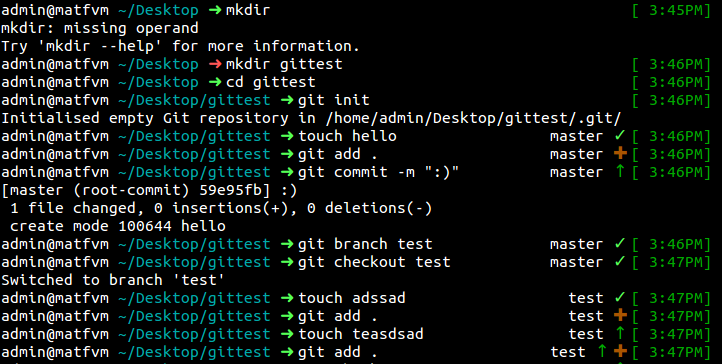
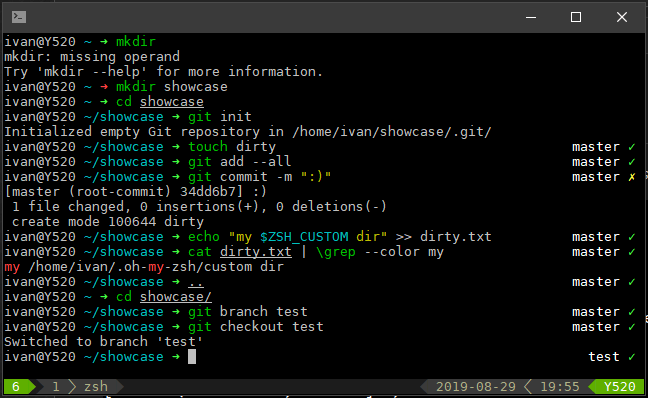
Updated preview image

diff --git a/README.md b/README.md
@@ -3,6 +3,8 @@ My custom made Oh-My-Zsh theme. Fast, simple and not bloated with useless inform
 
 ![Preview](preview.PNG)
 
+Best if used with common zsh plugins, [tmux](https://github.com/tmux/tmux/wiki) and [vim-airline](https://github.com/vim-airline/vim-airline).
+
 # Installation
 
 Use `setup.sh` script on an existing Oh-My-Zsh installation. This will hard-link the theme file to your Oh-My-Zsh directory. After that, simply change the theme in your `.zshrc` file (follow instructions in the script).
